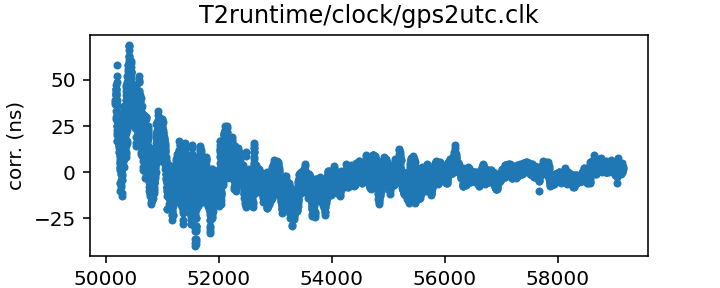
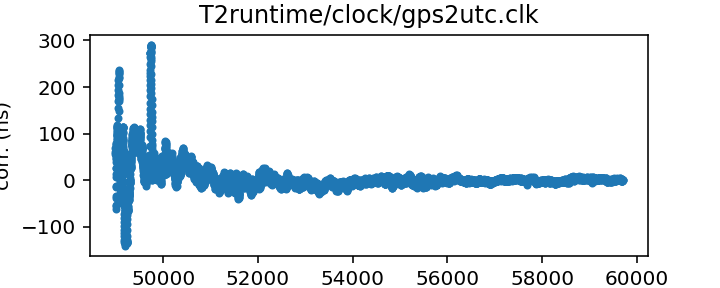
Autogenerate gps2utc.clk

diff --git a/T2runtime/clock/gps2utc_cc.clk.md b/T2runtime/clock/gps2utc_cc.clk.md
@@ -1,7 +1,7 @@
 
-## GPS to UTC
+## GPS to UTC (Combined Clock)
 
-GPS to UTC clock corrections
+GPS to UTC clock corrections (Combined Clock)
 
 This file is constructed from BIPM published data and should be up-to-date.
 
@@ -10,12 +10,9 @@ the first, C0, corrects from the GPS Combined Clock to UTC. The second,
 C0', corrects from a timescale that takes advantage of the broadcast
 GPS almanac data to track UTC more closely.
 
-This file uses C0' data when available, but that is only since 2011.
-Prior to that this uses C0.
-
-You may want to consider whether your GPS time standard is returning
-the Combined Clock or whether it is using the almanac data. There are
-more specific correction files suitable for one case or the other.
+This file uses C0 data, that is, it is for GPS time standards that
+do not take advantage of the almanac data to improve their time
+correction.
 
 If you have questions about this, contact Anne Archibald
 <anne.archibald@newcastle.ac.uk>. For more detailed questions
@@ -23,9 +20,9 @@ about the BIPM's published corrections, contact <tai@bipm.org>.
 
 |     |     |
 |:--- |:--- |
-| File | `T2runtime/clock/gps2utc.clk` |
+| File | `T2runtime/clock/gps2utc_cc.clk` |
 | Authority | observatory |
-| URL in repository | <https://raw.githubusercontent.com/nanograv/pulsar-clock-corrections/main/T2runtime/clock/gps2utc.clk> |
+| URL in repository | <https://raw.githubusercontent.com/nanograv/pulsar-clock-corrections/main/T2runtime/clock/gps2utc_cc.clk> |
 | Original download URL | <None> |
 | Format | tempo2 |
 | Bogus last correction | False |
@@ -37,17 +34,17 @@ about the BIPM's published corrections, contact <tai@bipm.org>.
 
 Log entries from the last few update attempts:
 ```
-2022-06-08 10:42:42.759 - No way to download: 'T2runtime/clock/gps2utc.clk'
-2022-06-08 10:42:42.787 - Updated
+2022-06-08 10:46:41.912 - No way to download: 'T2runtime/clock/gps2utc_cc.clk'
+2022-06-08 10:46:41.942 - Updated
 ```
-[Full log](https://raw.githubusercontent.com/nanograv/pulsar-clock-corrections/main/log/T2runtime/clock/gps2utc.clk.log)
+[Full log](https://raw.githubusercontent.com/nanograv/pulsar-clock-corrections/main/log/T2runtime/clock/gps2utc_cc.clk.log)
 
 
 All clock corrections:
 
-![plot of all clock corrections](gps2utc.clk.png "All corrections")
+![plot of all clock corrections](gps2utc_cc.clk.png "All corrections")
 
 Recent clock corrections:
 
-![plot of recent clock corrections](gps2utc.clk.short.png "Recent corrections")
+![plot of recent clock corrections](gps2utc_cc.clk.short.png "Recent corrections")
 

diff --git a/status.md b/status.md
@@ -13,6 +13,9 @@ name of each clock file links to a page with more details.
 
 | Name | File | Corrections start | Corrections end | Last check date | Last check result 
 |:--- |:--- | --- | --- | --- |:--- 
+| [GPS to UTC](T2runtime/clock/gps2utc.clk.html) | `T2runtime/clock/gps2utc.clk` | 1993-01-01 MJD 48988.0 | 2022-04-30 MJD 59699.0 | 2022-06-08 | Updated 
+| [GPS to UTC (Combined Clock)](T2runtime/clock/gps2utc_cc.clk.html) | `T2runtime/clock/gps2utc_cc.clk` | 1993-01-01 MJD 48988.0 | 2022-04-30 MJD 59699.0 | 2022-06-08 | Updated 
+| [GPS to UTC (Corrected)](T2runtime/clock/gps2utc_c0p.clk.html) | `T2runtime/clock/gps2utc_c0p.clk` | 2010-12-29 MJD 55559.0 | 2022-04-30 MJD 59699.0 | 2022-06-08 | Updated 
 | [GBT](tempo/clock/time_gbt.dat.html) | `tempo/clock/time_gbt.dat` | 2000-12-31 MJD 51909.5 | 2022-06-06 MJD 59736.5 | 2022-06-07 | Updated 
 | [GBT (TEMPO2 converted from TEMPO)](T2runtime/clock/gbt2gps.clk.html) | `T2runtime/clock/gbt2gps.clk` | 2000-12-31 MJD 51909.5 | 2022-06-06 MJD 59736.5 | 2022-06-07 | Updated 
 
@@ -35,7 +38,7 @@ name of each clock file links to a page with more details.
 
 | Name | File | Corrections start | Corrections end | Last check date | Last check result 
 |:--- |:--- | --- | --- | --- |:--- 
-| [GPS to UTC](T2runtime/clock/gps2utc.clk.html) | `T2runtime/clock/gps2utc.clk` | 1996-03-27 MJD 50169.0 | 2020-10-26 MJD 59148.0 | 2022-06-02 | Unchanged 
+| [GPS to UTC (TEMPO2)](T2runtime/clock/gps2utc_tempo2.clk.html) | `T2runtime/clock/gps2utc_tempo2.clk` | 1996-03-27 MJD 50169.0 | 2020-10-26 MJD 59148.0 | 2022-06-02 | Unchanged 
 | [GBT (TEMPO2)](T2runtime/clock/gbt2gps_tempo2.clk.html) | `T2runtime/clock/gbt2gps_tempo2.clk` | 2000-12-31 MJD 51909.5 | 2020-02-25 MJD 58904.5 | 2022-06-07 | Unchanged 
 | [Jodrell Bank](tempo/clock/time_jb.dat.html) | `tempo/clock/time_jb.dat` | 2006-10-13 MJD 54021.4 | 2019-05-13 MJD 58616.1 | 2022-06-02 | Unchanged 
 | [Jodrell Bank (TEMPO2)](T2runtime/clock/jb2gps.clk.html) | `T2runtime/clock/jb2gps.clk` | 2006-10-13 MJD 54021.4 | 2021-11-02 MJD 59521.0 | 2022-06-07 | Unchanged 

diff --git a/T2runtime/clock/gps2utc_c0p.clk.md b/T2runtime/clock/gps2utc_c0p.clk.md
@@ -1,0 +1,51 @@
+
+## GPS to UTC (Corrected)
+
+GPS to UTC clock corrections (Corrected)
+
+This file is constructed from BIPM published data and should be up-to-date.
+
+The BIPM publishes two different corrections from GPS to UTC:
+the first, C0, corrects from the GPS Combined Clock to UTC. The second,
+C0', corrects from a timescale that takes advantage of the broadcast
+GPS almanac data to track UTC more closely.
+
+This file uses C0' data, that is, it is for GPS time standards that
+take advantage of the almanac data to improve their time correction.
+Unfortunately the BIPM only publishes these corrections going back
+to 2011.
+
+If you have questions about this, contact Anne Archibald
+<anne.archibald@newcastle.ac.uk>. For more detailed questions
+about the BIPM's published corrections, contact <tai@bipm.org>.
+
+|     |     |
+|:--- |:--- |
+| File | `T2runtime/clock/gps2utc_c0p.clk` |
+| Authority | observatory |
+| URL in repository | <https://raw.githubusercontent.com/nanograv/pulsar-clock-corrections/main/T2runtime/clock/gps2utc_c0p.clk> |
+| Original download URL | <None> |
+| Format | tempo2 |
+| Bogus last correction | False |
+| Clock file start | 2010-12-29 MJD 55559.0 |
+| Clock file end | 2022-04-30 MJD 59699.0 |
+| Update interval (days) | 1 |
+| Last update attempt | 2022-06-08 |
+| Last update result | Updated |
+
+Log entries from the last few update attempts:
+```
+2022-06-08 10:46:41.942 - No way to download: 'T2runtime/clock/gps2utc_c0p.clk'
+2022-06-08 10:46:41.957 - Updated
+```
+[Full log](https://raw.githubusercontent.com/nanograv/pulsar-clock-corrections/main/log/T2runtime/clock/gps2utc_c0p.clk.log)
+
+
+All clock corrections:
+
+![plot of all clock corrections](gps2utc_c0p.clk.png "All corrections")
+
+Recent clock corrections:
+
+![plot of recent clock corrections](gps2utc_c0p.clk.short.png "Recent corrections")
+

diff --git a/T2runtime/clock/gps2utc_tempo2.clk.md b/T2runtime/clock/gps2utc_tempo2.clk.md
@@ -1,0 +1,47 @@
+
+## GPS to UTC (TEMPO2)
+
+GPS to UTC clock corrections
+
+This file is used in the clock correction process for almost all
+observatories.
+
+This file is pulled from the TEMPO2 repository and may not be fully up-to-date.
+
+In TEMPO2 this file was traditionally generated by a script that parsed
+BIPM Circular T and merged any new data into this file. This has
+resulted in some anomalous entries at the merge points and also
+a change in entries as Circular T has redefined what it publishes
+(early entries in this file are from the column C0, later entries
+are from the column C0').
+
+|     |     |
+|:--- |:--- |
+| File | `T2runtime/clock/gps2utc_tempo2.clk` |
+| Authority | temporary |
+| URL in repository | <https://raw.githubusercontent.com/nanograv/pulsar-clock-corrections/main/T2runtime/clock/gps2utc_tempo2.clk> |
+| Original download URL | <https://bitbucket.org/psrsoft/tempo2/raw/HEAD/T2runtime/clock/gps2utc.clk> |
+| Format | tempo2 |
+| Bogus last correction | True |
+| Clock file start | 1996-03-27 MJD 50169.0 |
+| Clock file end | 2020-10-26 MJD 59148.0 |
+| Update interval (days) | 7 |
+| Last update attempt | 2022-06-02 |
+| Last update result | Unchanged |
+
+Log entries from the last few update attempts:
+```
+2022-05-26 09:15:32.872 - Unchanged
+2022-06-02 11:46:29.631 - Unchanged
+```
+[Full log](https://raw.githubusercontent.com/nanograv/pulsar-clock-corrections/main/log/T2runtime/clock/gps2utc_tempo2.clk.log)
+
+
+All clock corrections:
+
+![plot of all clock corrections](gps2utc_tempo2.clk.png "All corrections")
+
+Recent clock corrections:
+
+![plot of recent clock corrections](gps2utc_tempo2.clk.short.png "Recent corrections")
+
